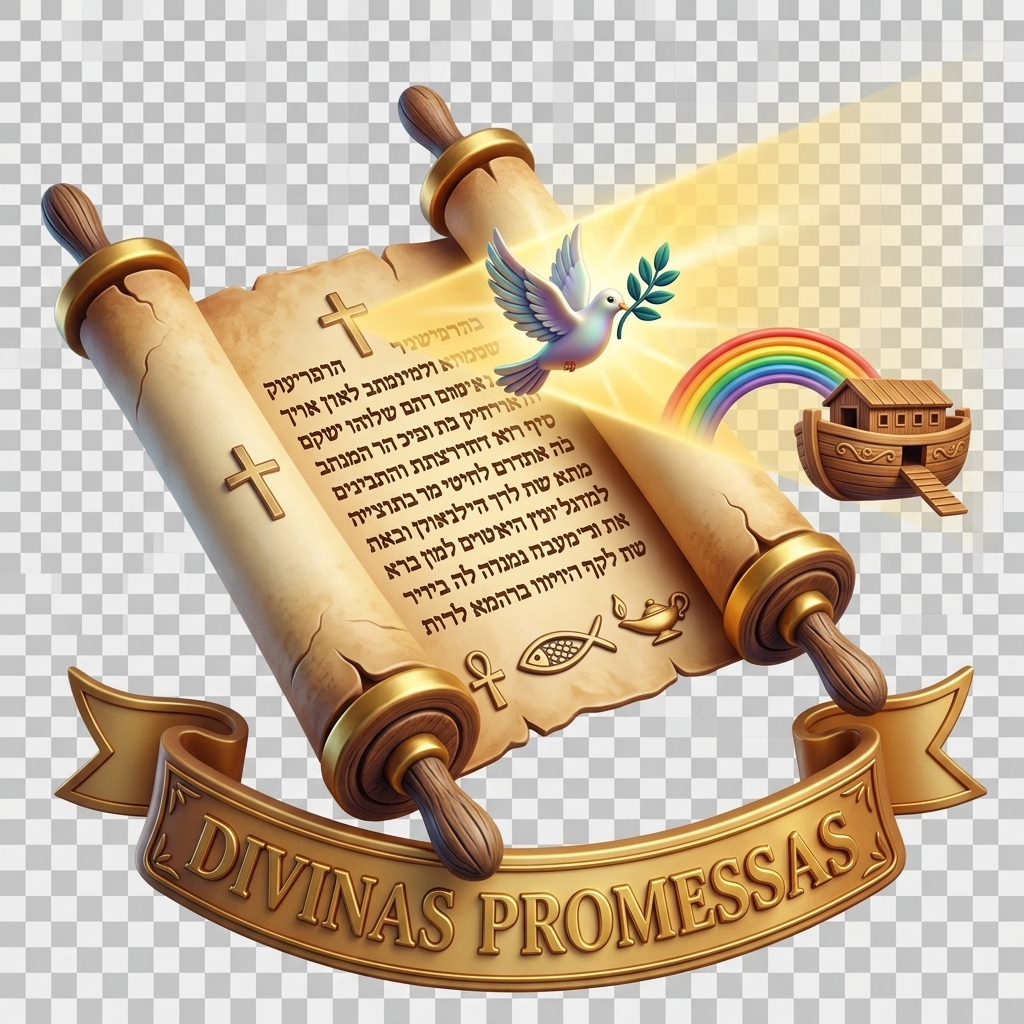
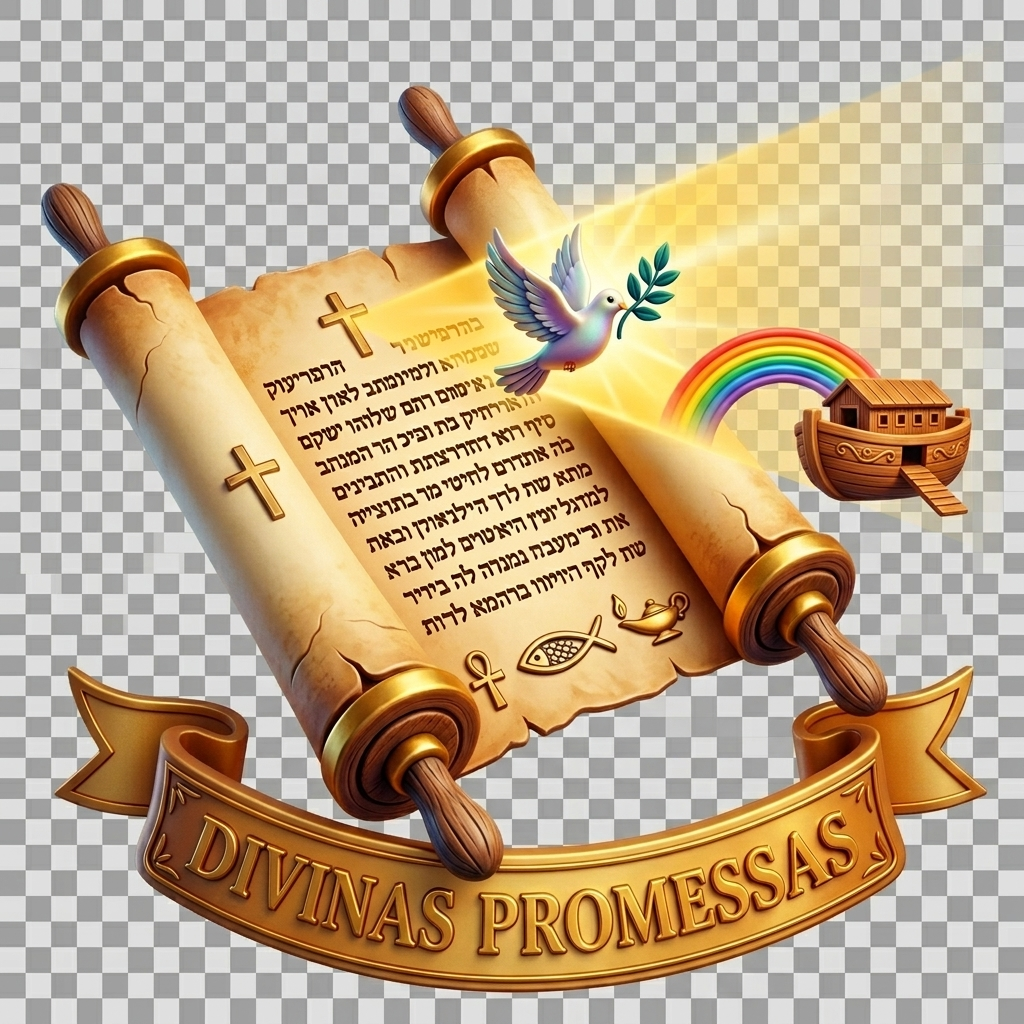
fix: update divinaspromessas image to 3D transparent and replace in Index.tsx

diff --git a/src/pages/Index.tsx b/src/pages/Index.tsx
@@ -1,4 +1,4 @@
-import { Button } from "@/components/ui/button";
+import { Button } from "@/components/ui/button";
 import { Card } from "@/components/ui/card";
 import { Heart, Send, Sparkles, LogOut, User, BookOpen, HandHeart, Sun, Users, Wind, Mail, Home } from "lucide-react";
 import { Link, useNavigate } from "react-router-dom";
@@ -202,7 +202,7 @@ const Index = () => {
               <Link to="/divine-promise">
                 <Card className="p-6 h-full text-center flex flex-col items-center justify-between border-primary/5 soft-shadow hover:bg-white transition-colors rounded-[2rem] border-dashed">
                   <div className="w-14 h-14 bg-transparent rounded-full flex items-center justify-center mb-4 overflow-hidden">
-                    <img src="/divinaspromessas.png" alt="Divina Promessa" className="w-full h-full object-cover drop-shadow-md rounded-full" />
+                    <img src="/divinaspromessas_3d.png" alt="Divina Promessa" className="w-full h-full object-cover drop-shadow-md rounded-full" />
                   </div>
                   <div>
                     <h2 className="text-lg font-bold mb-2">Divina Promessa</h2>